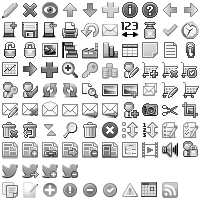
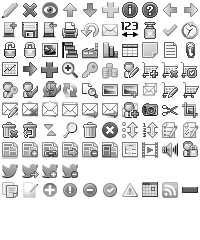
* Actualizo imagenes y estilos (no había Minus) * Menso controles y ordenso diferente botones en listado * Cambio orden de parsed, mas recientes arriba

diff --git a/articulat/mdp/css/globalCustom.css b/articulat/mdp/css/globalCustom.css
@@ -233,6 +233,8 @@ input[type="submit"].icon, input[type="button"].icon {
 	background-position: -40px -160px !Important; }
 .iconTwitterDelete {
 	background-position: -60px -160px !Important; }
+.iconMinus {
+	background-position: -180px -180px !Important; }
 .iconExpand {
 	background-image: url(../images/icon_expand.png) !Important;
 	background-position: 2px 2px !Important;}

diff --git a/articulat/mdp/WEB-INF/classes/modules/twitter/actions/TwitterParsedListAction.php b/articulat/mdp/WEB-INF/classes/modules/twitter/actions/TwitterParsedListAction.php
@@ -43,6 +43,8 @@ class TwitterParsedListAction extends BaseListAction {
 		}else
 			$this->filters['maxStatus'] = TwitterTweet::PARSED;
 
+		$this->filters['orderByCreatedat'] = "desc";
+
 	}
 
 	protected function postList() {
